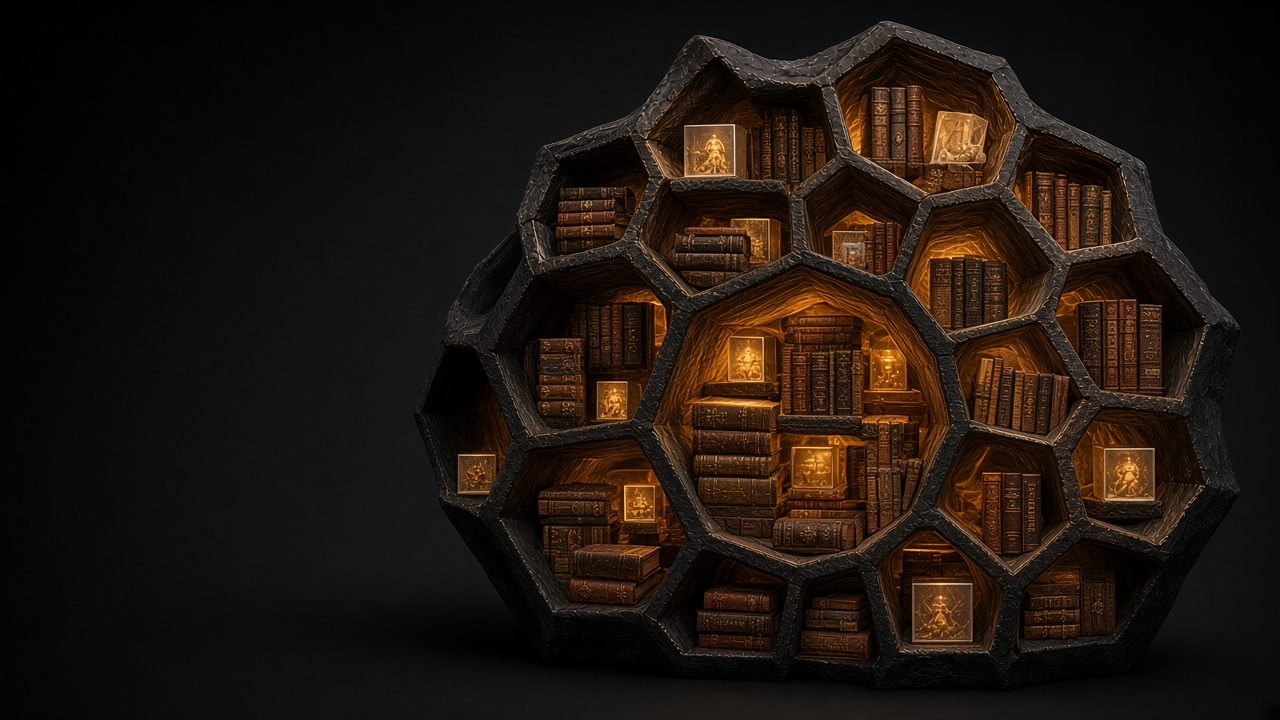
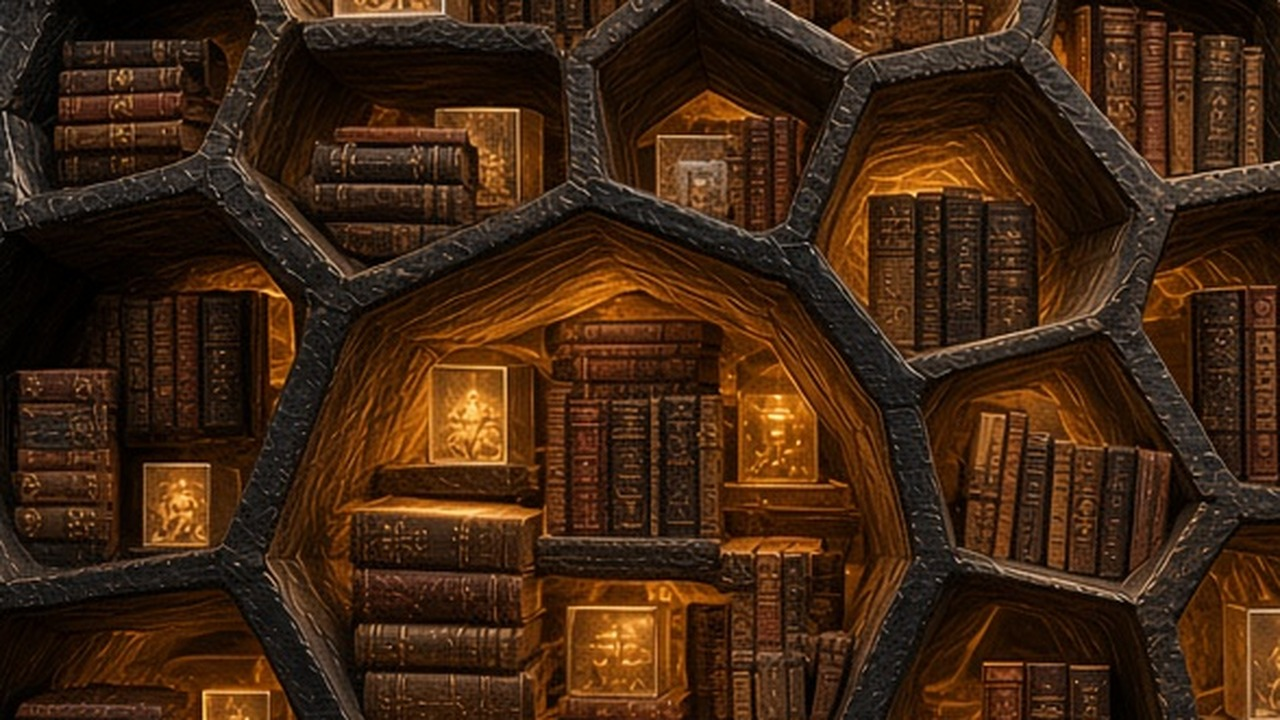
Fill Directory Start Here chamber to match other panels
Re-crop public Directory chamber art tighter around the hive
library so the shallow thumbnail fills edge-to-edge like the
other three. Tile-art source unchanged. Preview only.

diff --git a/src/styles.css b/src/styles.css
@@ -85,6 +85,7 @@ html.menu-open,html.menu-open body{overflow:hidden}
 .tile-chamber:hover{border-color:var(--acc);box-shadow:0 0 0 1px rgba(251,191,36,.22),0 8px 22px rgba(0,0,0,.28)}
 .tile-chamber-img{display:block;width:100%;height:auto;aspect-ratio:2.6/1;max-height:100px;object-fit:cover;object-position:center 42%;background:#05070c}
 @media(min-width:760px){.tile-chamber-img{height:90px;max-height:90px;aspect-ratio:auto}}
+.tile-chamber-img--dir{object-position:58% 48%}
 .tile-chamber-body{display:flex;flex-direction:column;gap:2px;padding:8px 12px 10px;border-top:2px solid var(--acc)}
 .tile-chamber-body strong{font-size:1rem;line-height:1.2}
 .tile-chamber-body>span{margin:0;color:var(--mut);font-size:.82rem;line-height:1.3}
